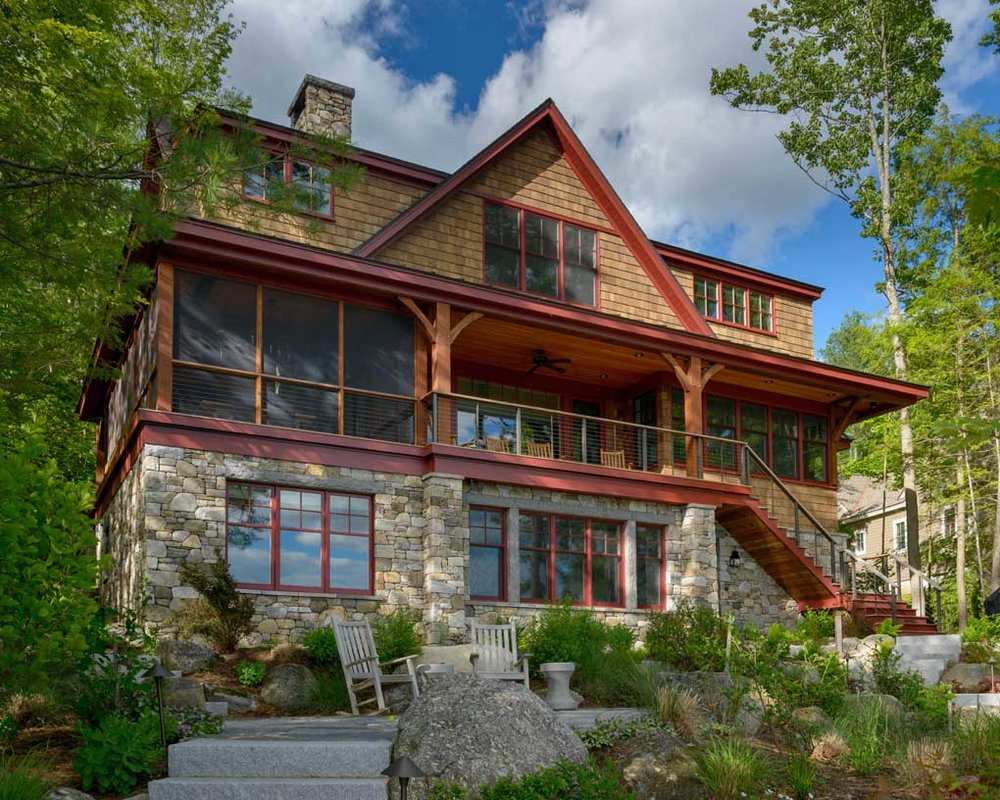
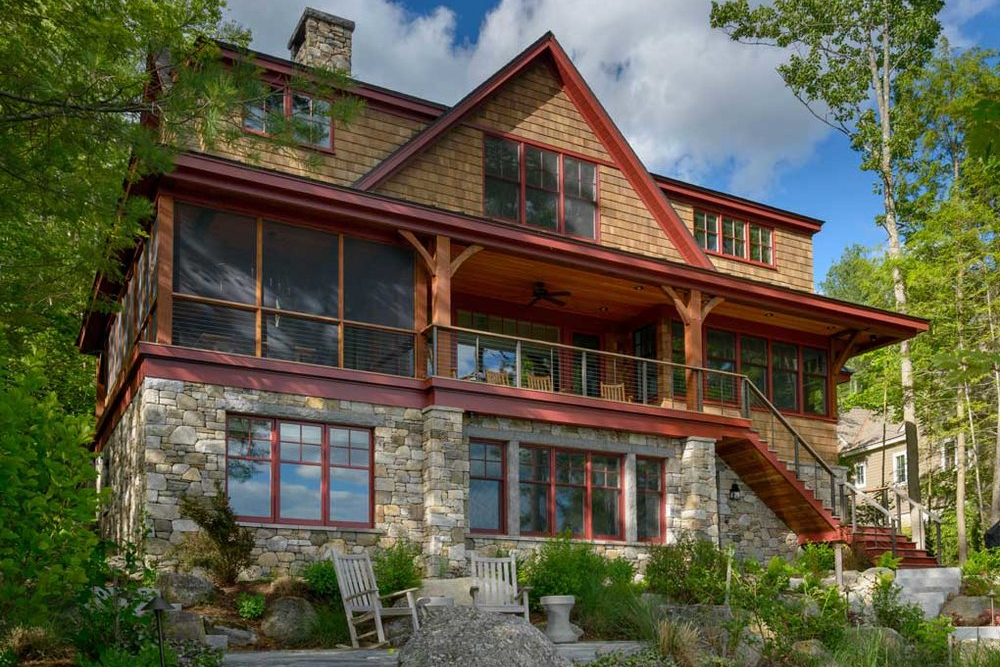
cambios galeria

diff --git a/casa.html b/casa.html
@@ -1,39 +1,43 @@
 <!DOCTYPE html>
 <html lang="es">
-    <head>
-        <meta charset="UTF-8">
-        <meta name="viewport" content="width=device-width, user-scalable=no, initial-scale=1.0, maximum-scale=1.0, minimum-scale=1.0">
-        <meta http-equiv="X-UA-Compatible" content="IE=edge">
-        <link rel="stylesheet" href="./src/css/style.css">
-        <link rel="stylesheet" href="https://fonts.googleapis.com/css?family=Enriqueta">
-        <title>Casa Luisa</title>
-    </head>
-    <header>
-        <nav class="menu">
-            <h1>Casa Luisa</h1>
-            <ul>
-                <li class="menu"><a href="./index.html">Home</a></li>
-                <li class="menu" id="selected"><a href="./casa.html">Casa</a></li>
-                <li class="menu"><a href="./servicios.html">Servicios</a></li>
-                <li class="menu"><a href="./reservas.html">Reservas</a></li>
-                <li class="menu"><a href="./contacto.html">Contacto</a></li>
-            </ul>
-        </nav>
-        
-    </header>
-    <body>
-        
-        <h2>La Casa </h2>
-        <div class="galeria">
-            <a class="foto" href="./src/img/02.jpeg"><img src="./src/img/02.jpeg" alt="Casa amplia con recubrimento de piedra"></a>
-            <a class="foto" href="./src/img/03.jpeg"><img src="./src/img/03.jpeg" alt="Casa amplia con recubrimento de piedra"></a>
-            <a class="foto" href="./src/img/04.jpeg"><img src="./src/img/04.jpeg" alt="Casa amplia con recubrimento de piedra"></a>
-            <a class="foto" href="./src/img/05.jpeg"><img src="./src/img/05.jpeg" alt="Casa amplia con recubrimento de piedra"></a>
-            <a class="foto" href="./src/img/06.jpeg"><img src="./src/img/06.jpeg" alt="Casa amplia con recubrimento de piedra"></a>
-            <a class="foto" href="./src/img/07.jpeg"><img src="./src/img/07.jpeg" alt="Casa amplia con recubrimento de piedra"></a>
-            <a class="foto" href="./src/img/08.jpeg"><img src="./src/img/08.jpeg" alt="Casa amplia con recubrimento de piedra"></a>
-            <a class="foto" href="./src/img/09.jpeg"><img src="./src/img/09.jpeg" alt="Casa amplia con recubrimento de piedra"></a>
-            <a class="foto" href="./src/img/10.jpeg"><img src="./src/img/10.jpeg" alt="Casa amplia con recubrimento de piedra"></a>
-        </div>
-    </body>
+
+<head>
+    <meta charset="UTF-8">
+    <meta name="viewport"
+        content="width=device-width, user-scalable=no, initial-scale=1.0, maximum-scale=1.0, minimum-scale=1.0">
+    <meta http-equiv="X-UA-Compatible" content="IE=edge">
+    <link rel="stylesheet" href="./src/css/gallery.css">
+    <link rel="stylesheet" href="./src/css/style.css">
+    <link rel="stylesheet" href="https://fonts.googleapis.com/css?family=Enriqueta">
+    <title>Casa Luisa</title>
+</head>
+<header>
+    <nav class="menu">
+        <h1>Casa Luisa</h1>
+        <ul>
+            <li class="menu" id="selected"><a href="./index.html">Home</a></li>
+            <li class="menu"><a href="./casa.html">Casa</a></li>
+            <li class="menu"><a href="./servicios.html">Servicios</a></li>
+            <li class="menu"><a href="./reservas.html">Reservas</a></li>
+            <li class="menu"><a href="./contacto.html">Contacto</a></li>
+        </ul>
+    </nav>
+    
+</header>
+
+<body>
+    <h2>La Casa </h2>
+    <div class="grid">
+            <a href="./src/img/02.jpeg"><img class="foto" src="./src/img/02.jpeg" alt="Casa amplia con recubrimento de piedra"></a>
+            <a href="./src/img/03.jpeg"><img class="foto" src="./src/img/03.jpeg" alt="Casa amplia con recubrimento de piedra"></a>
+            <a href="./src/img/05.jpeg"><img class="foto" src="./src/img/05.jpeg" alt="Casa amplia con recubrimento de piedra"></a>
+            <a href="./src/img/06.jpeg"><img class="foto" src="./src/img/06.jpeg" alt="Casa amplia con recubrimento de piedra"></a>
+            <a href="./src/img/07.jpeg"><img class="foto" src="./src/img/07.jpeg" alt="Casa amplia con recubrimento de piedra"></a>
+            <a href="./src/img/10.jpeg"><img class="foto" src="./src/img/10.jpeg" alt="Casa amplia con recubrimento de piedra"></a>
+            <a href="./src/img/08.jpeg"><img class="foto" src="./src/img/08.jpeg" alt="Casa amplia con recubrimento de piedra"></a>
+            <a href="./src/img/09.jpeg"><img class="foto" src="./src/img/09.jpeg" alt="Casa amplia con recubrimento de piedra"></a>
+            <a href="./src/img/04.jpeg"><img class="foto" src="./src/img/04.jpeg" alt="Casa amplia con recubrimento de piedra"></a>
+</div>
+</body>
+
 </html>

diff --git a/src/css/gallery.css b/src/css/gallery.css
@@ -1,0 +1,51 @@
+div
+{
+    text-align: center;
+}
+.grid
+{
+    display: grid;
+    grid-template-columns: repeat(3, 1fr);
+    grid-gap: 3px;
+}
+
+.grid a
+{
+    margin: 10px;
+}
+
+.foto
+{
+    text-align: center;
+    width: 100%;
+}
+
+.foto
+{
+    text-align: center;
+    width: 100%;
+    object-fit: cover;
+    object-position: 80% 100%;
+}
+
+.responsive {
+    padding: 0 6px;
+    float: left;
+    width:100%;
+}
+
+@media only screen and (max-width: 700px)
+{
+    .grid
+    {
+        grid-template-columns: repeat(2, 1fr);
+    }
+}
+
+@media only screen and (max-width: 500px)
+{
+    .grid
+    {
+        grid-template-columns: repeat(1, 1fr);
+    }
+}

diff --git a/src/css/style.css b/src/css/style.css
@@ -87,7 +87,7 @@ td label
     display: none;
 }
 
-.galeria
+/*.galeria
 {
     display: flex;
     flex-wrap: wrap;
@@ -104,7 +104,9 @@ td label
 .foto img
 {
     width: 100%;
-}
+    object-fit: cover;
+    object-position: 80% 100%;
+}*/
 
 /*
     Paleta colores
